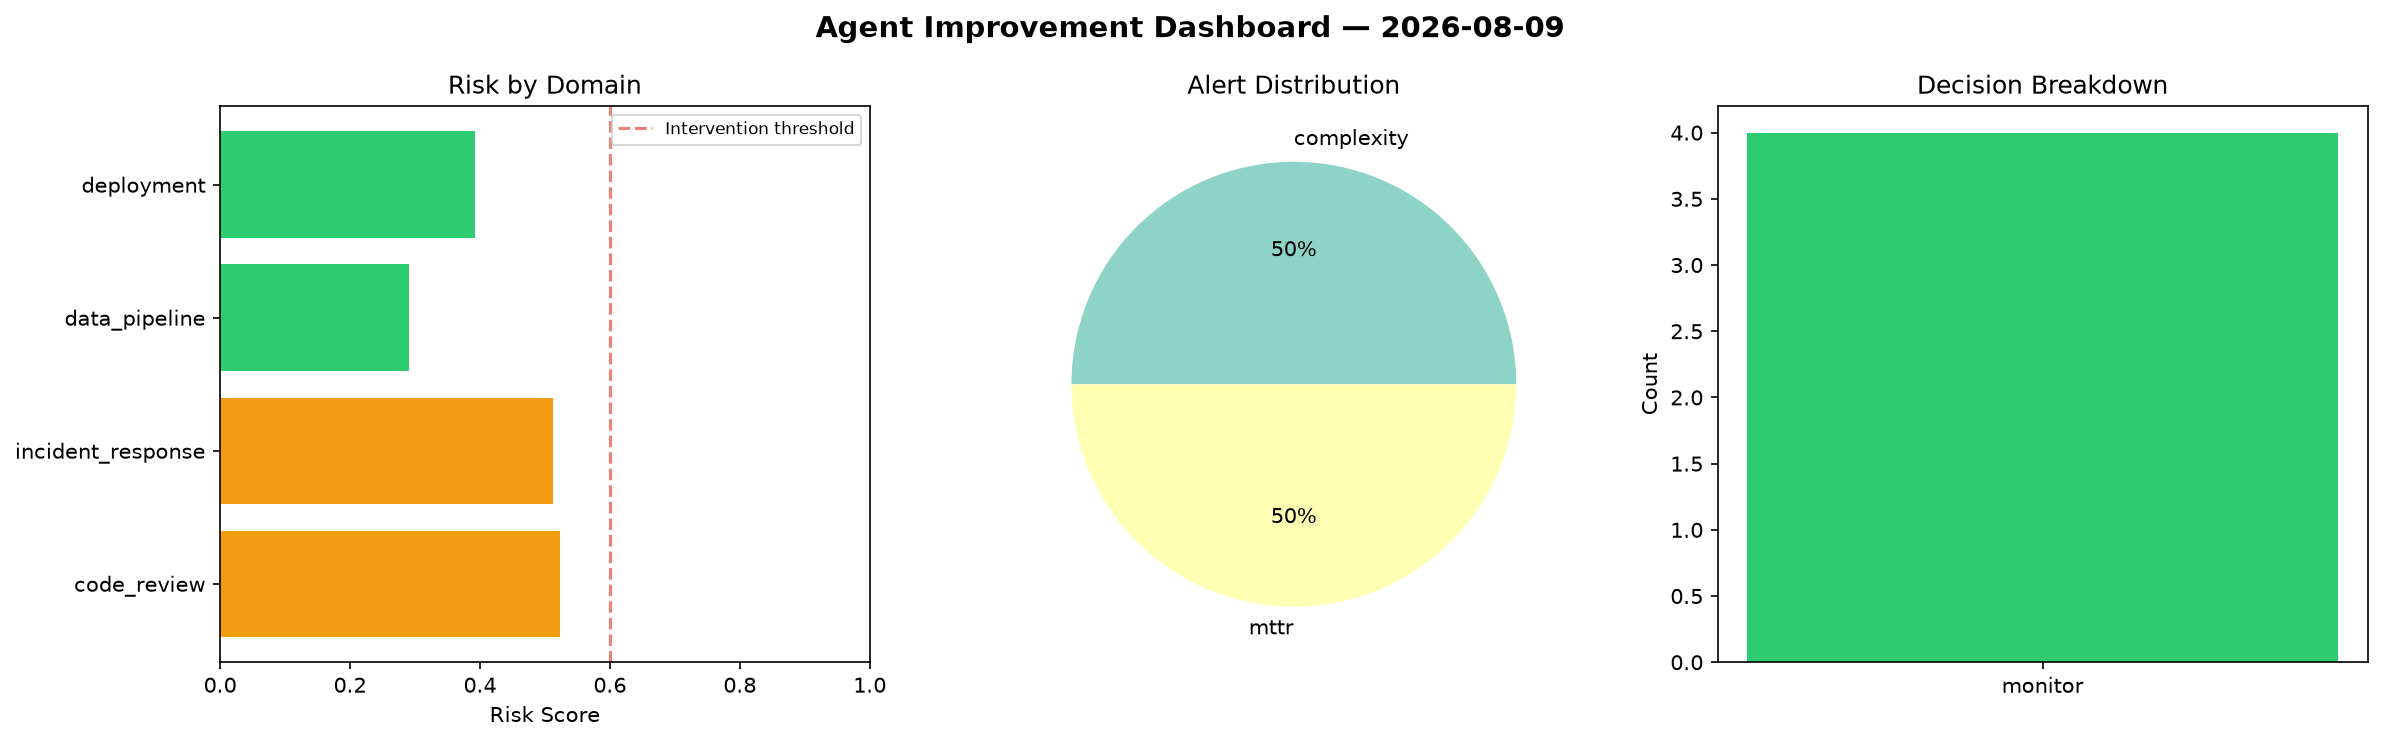
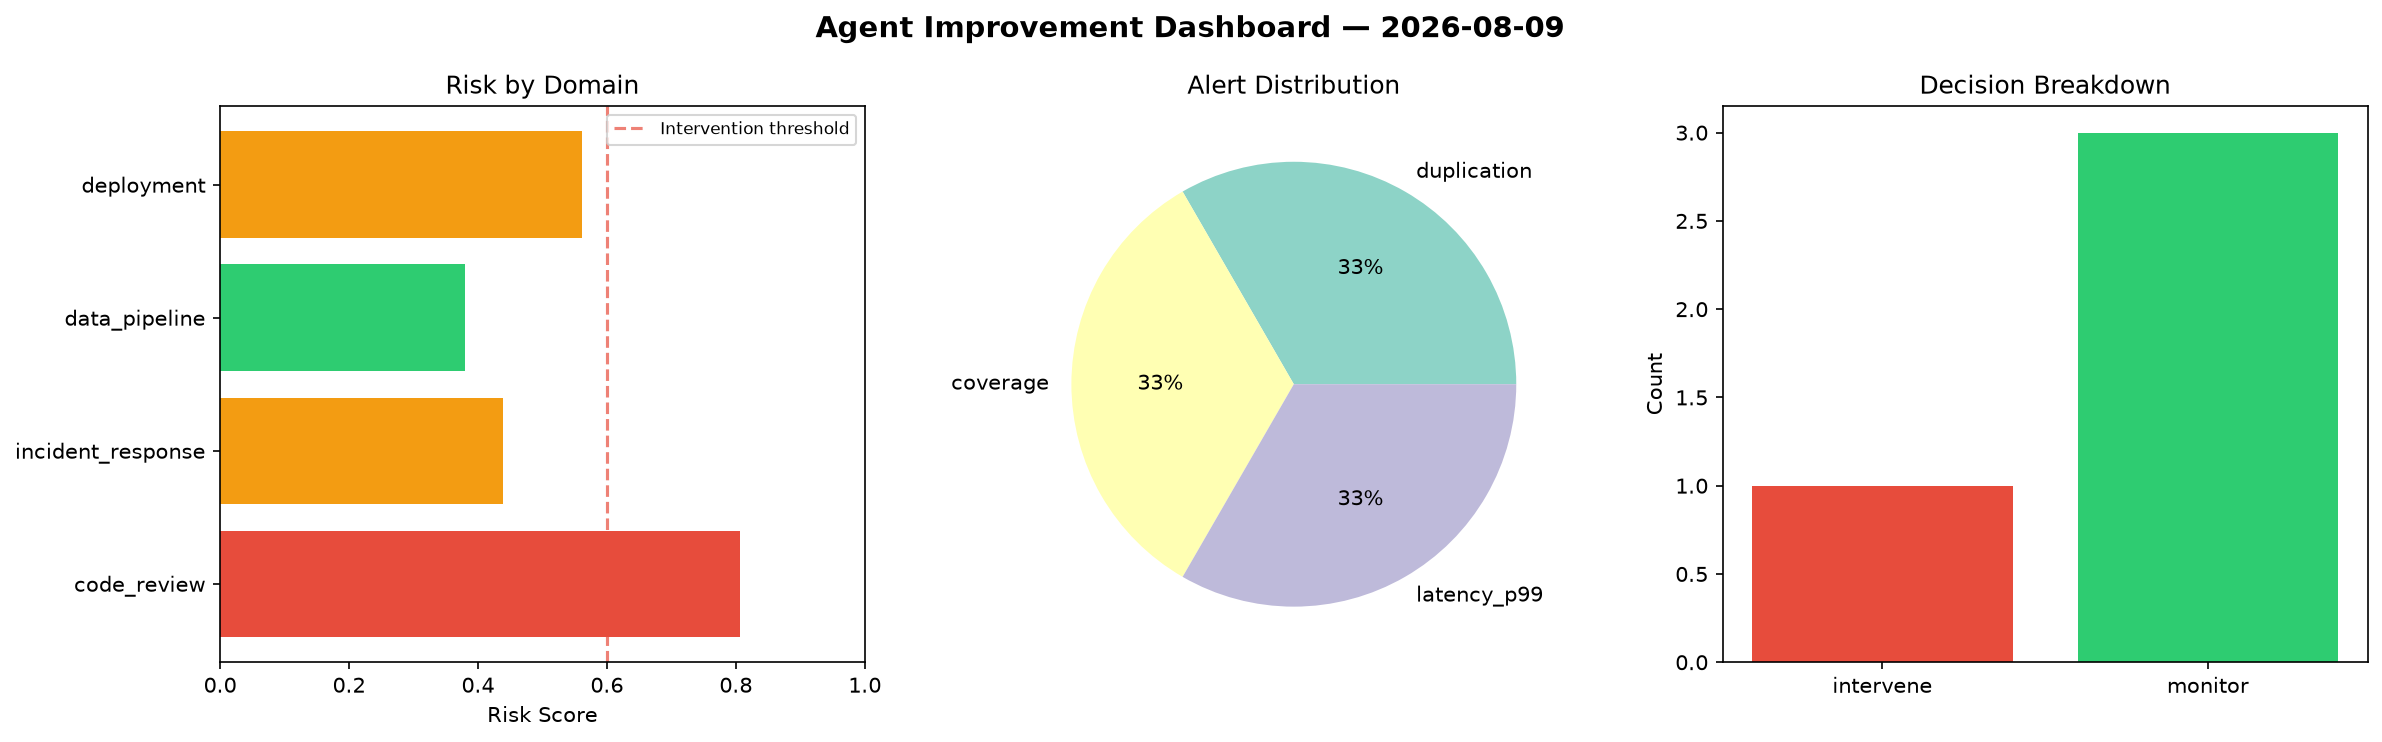
agent-improvement: daily cycle 2026-08-09T20:49

diff --git a/logs/2026-08-09.md b/logs/2026-08-09.md
@@ -1,6 +1,6 @@
 # Agent Improvement Report — 2026-08-09
 
-**Cycle ID:** `101e050e` | **Avg Risk:** 0.4299 | **Interventions:** 0/4
+**Cycle ID:** `97173f50` | **Avg Risk:** 0.5464 | **Interventions:** 1/4
 
 ![Dashboard](2026-08-09_dashboard.png)
 
@@ -10,18 +10,18 @@
 
 | Domain | Risk Score | Decision | Alerts |
 |--------|-----------|----------|--------|
-| code_review | 0.5228 | monitor | complexity |
-| incident_response | 0.5131 | monitor | mttr |
-| data_pipeline | 0.2915 | monitor | none |
-| deployment | 0.3924 | monitor | none |
+| code_review | 0.8067 | intervene | duplication, coverage |
+| incident_response | 0.4383 | monitor | none |
+| data_pipeline | 0.3794 | monitor | none |
+| deployment | 0.561 | monitor | latency_p99 |
 
 ## Delta vs Yesterday
 
 | Domain | Today | Yesterday | Change |
 |--------|-------|-----------|--------|
-| code_review | 0.5228 | 0.3267 | 📈 60.0% |
-| incident_response | 0.5131 | 0.6056 | 📉 -15.3% |
-| data_pipeline | 0.2915 | 0.6975 | 📉 -58.2% |
-| deployment | 0.3924 | 0.6393 | 📉 -38.6% |
+| code_review | 0.8067 | 0.3267 | 📈 146.9% |
+| incident_response | 0.4383 | 0.6056 | 📉 -27.6% |
+| data_pipeline | 0.3794 | 0.6975 | 📉 -45.6% |
+| deployment | 0.561 | 0.6393 | 📉 -12.2% |
 
 **Refinement:** `{'adjustment': 'maintain', 'trend': 'improving', 'window': 4}`
